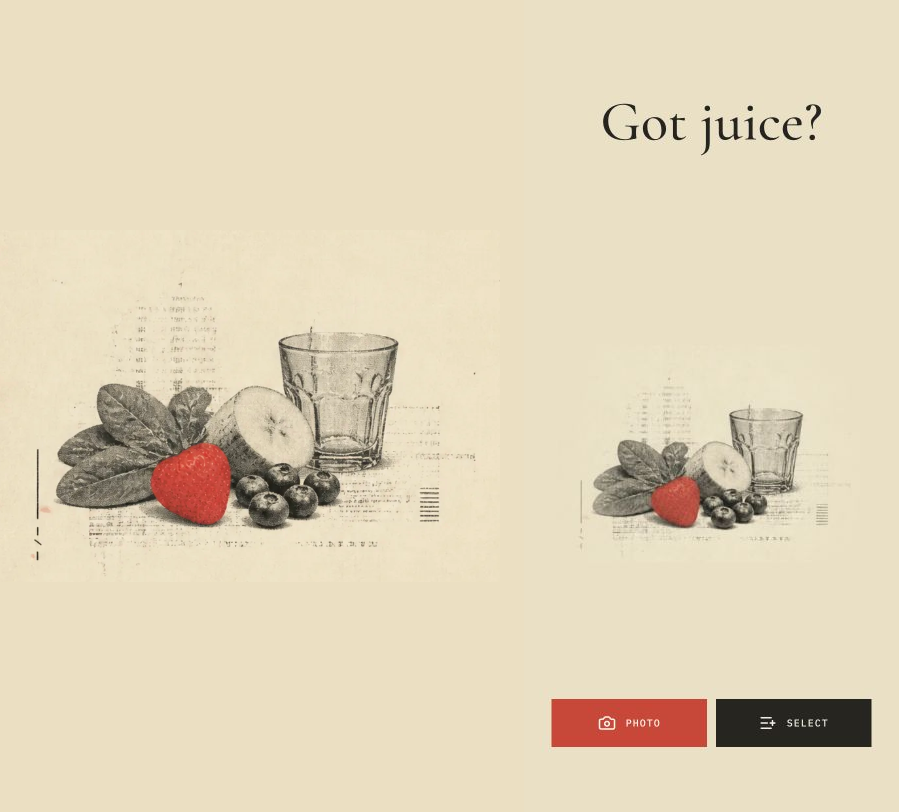
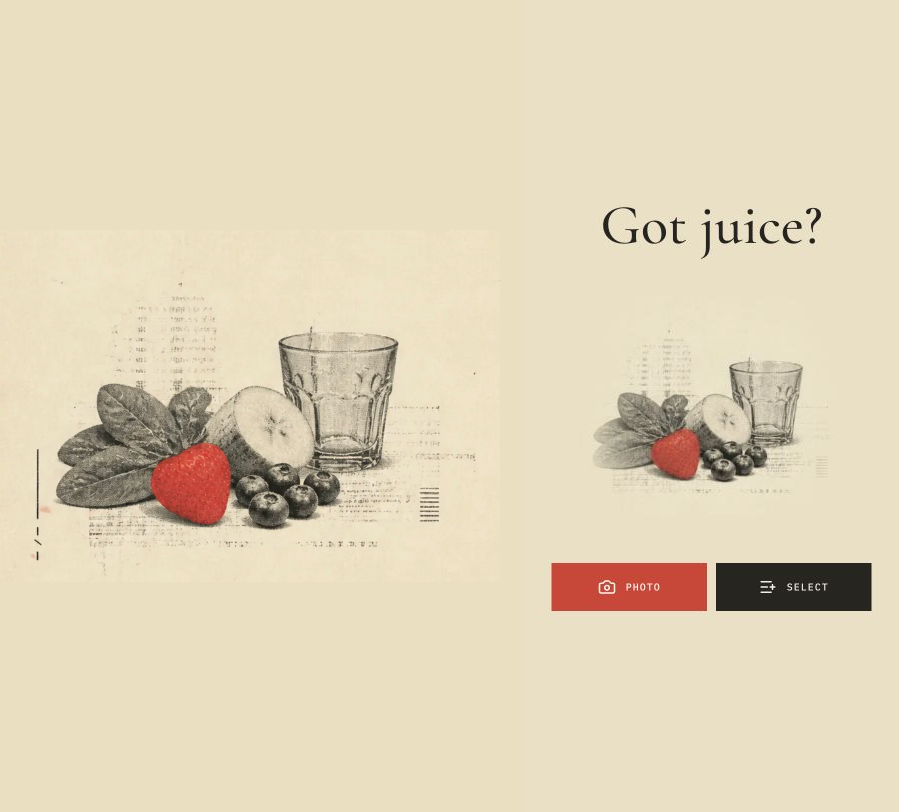
Center landing composition

diff --git a/src/index.css b/src/index.css
@@ -101,19 +101,6 @@ button:disabled { cursor: not-allowed; }
   background-color: #ebdfc2;
 }
 
-.landing-page::before {
-  content: '';
-  position: absolute;
-  inset: 0;
-  pointer-events: none;
-  background-image: url('/assets/zine-produce-study.webp');
-  background-position: center 58%;
-  background-size: min(82vw, 500px) auto;
-  background-repeat: no-repeat;
-  -webkit-mask-image: radial-gradient(ellipse 48% 31% at 50% 58%, #000 48%, transparent 92%);
-  mask-image: radial-gradient(ellipse 48% 31% at 50% 58%, #000 48%, transparent 92%);
-}
-
 .landing-copy {
   position: relative;
   z-index: 2;
@@ -121,9 +108,10 @@ button:disabled { cursor: not-allowed; }
   min-height: 100svh;
   flex-direction: column;
   align-items: center;
-  justify-content: space-between;
+  justify-content: center;
+  gap: clamp(34px, 6svh, 58px);
   width: 100%;
-  padding: 12svh 20px 8svh;
+  padding: 32px 20px;
   text-align: center;
 }
 
@@ -141,6 +129,14 @@ button:disabled { cursor: not-allowed; }
 .landing-copy h1 {
   font-size: clamp(54px, 15vw, 82px);
   line-height: 0.86;
+}
+
+.landing-artwork {
+  display: block;
+  width: min(82vw, 500px);
+  height: auto;
+  -webkit-mask-image: radial-gradient(ellipse 48% 82% at 50% 50%, #000 48%, transparent 92%);
+  mask-image: radial-gradient(ellipse 48% 82% at 50% 50%, #000 48%, transparent 92%);
 }
 
 .landing-actions {
@@ -431,7 +427,7 @@ button:disabled { cursor: not-allowed; }
 .recipe-footer > span { color: var(--faded); font-size: 7px; letter-spacing: 0.12em; }
 
 @media (min-width: 700px) {
-  .landing-copy { padding: 10svh 42px 7svh; }
+  .landing-copy { padding: 42px; }
   .landing-actions { width: min(100%, 360px); }
   .editor-page, .capture-page, .recipe-page { padding: 26px 38px 36px; }
   .ingredient-ledger { grid-template-columns: 1fr 1fr; }

diff --git a/src/components/ZineLanding.tsx b/src/components/ZineLanding.tsx
@@ -11,6 +11,12 @@ export function ZineLanding({ onPhoto, onChoose }: Props) {
       <div className="landing-copy">
         <h1>Got juice?</h1>
 
+        <img
+          className="landing-artwork"
+          src="/assets/zine-produce-study.webp"
+          alt="Strawberry, leafy greens, apple, blueberries, and a glass"
+        />
+
         <div className="landing-actions" aria-label="Start a smoothie recipe">
           <button type="button" className="zine-button zine-button--accent" onClick={onPhoto}>
             <Camera aria-hidden="true" size={18} />

diff --git a/design-qa.md b/design-qa.md
@@ -38,6 +38,7 @@ The combined comparison shows the supplied cropped artwork beside the mobile imp
 - P2: the full-background crop made the fruit cluster too visually dominant. Reduced the artwork to 64% of the viewport height and verified the smaller composition at 375 x 812 and 1440 x 900 without overflow.
 - P2: the artwork canvas initially formed a faint lighter rectangle against the page. Sampled its edge color, matched the landing background to `#e7d9bd`, and softly masked the raster perimeter so the paper field now renders as one continuous surface.
 - P2: the landing still used the original tall poster asset after the desired composition had been cropped externally. Replaced it with the supplied 500 x 352 crop, matched the page to its `#ebdfc2` paper edge, and changed responsive sizing from height-based to width-based so the full crop remains visible.
+- P2: the title and actions were pinned near opposite viewport edges, making the landing feel vertically dispersed. Moved the artwork into the document flow and centered the title, artwork, and actions as one responsive group; its measured center is exactly 406 px at 375 x 812 and 450 px at 1440 x 900.
 
 ## Findings
 
